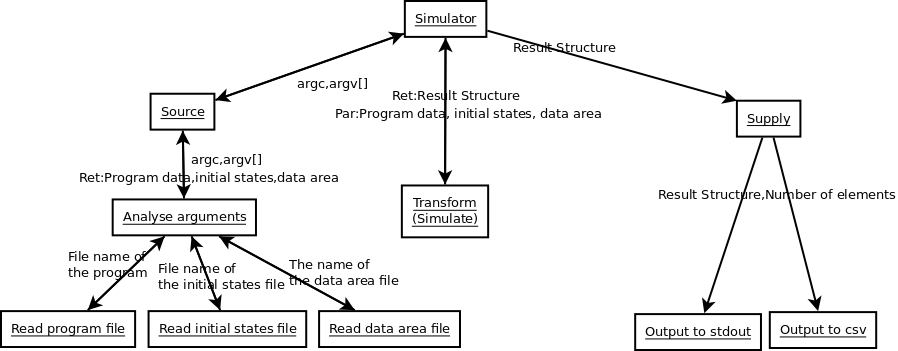
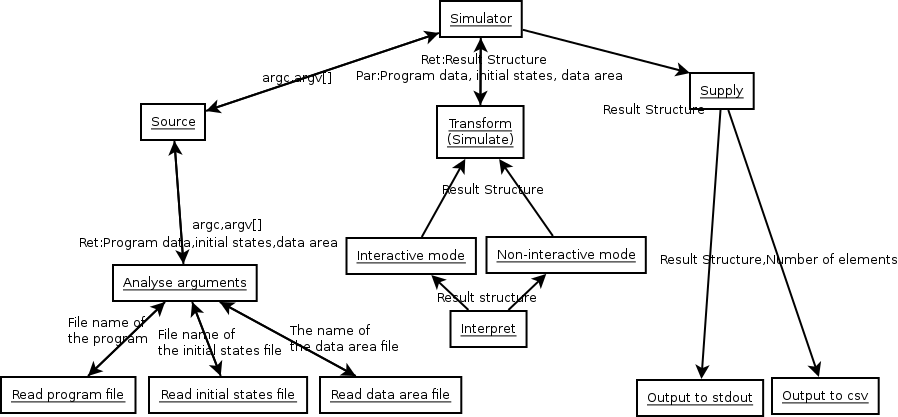
Fixed something.
*)Fixed lacking description of spec.
*)Fixed no-step-passing problem.

Changed region(s): [[0.0, 0.0, 1.0, 1.0]]

diff --git a/main.c b/main.c
@@ -4,6 +4,7 @@
 #include <string.h>
 #include <getopt.h>
 #include <stdlib.h>
+#include <kue-chip2.h>
 
 #define free_mem \
     free(initial_filepath);\
@@ -18,7 +19,7 @@
 
 void showDesc(char *apppath);
 int main(int argc,char *argv[]){
-    int invalid=0,loopid=0,per_inst=0;
+    int invalid=0,loopid=0,per_inst=0,has_err=0;
     size_t step=0;
     char *initial_filepath,*program_filepath,*data_filepath,*out_to;
     initial_filepath=program_filepath=data_filepath=NULL;
@@ -65,11 +66,6 @@ int main(int argc,char *argv[]){
     }
     
     if(invalid) showDesc(argv[0]);
-    if(program_filepath==NULL){
-        fputs("You have to specify program filepath.\n",stderr);
-        free_mem;
-        return EXIT_FAILURE;
-    }
     
     /*Read files*/
     io_data d;
@@ -81,16 +77,14 @@ int main(int argc,char *argv[]){
     puts("File read successfully.");
     
     /*Transform*/
-    if(per_inst){
-        
-    }else{
-        
-    }
+    if(per_inst) has_err=interactive(&d,step,out_to);
+    else has_err=non_interactive(&d,step,out_to);
     
     /*Clean data*/
     free_data;
     free_mem;
-    return 0;
+    
+    return (has_err)?EXIT_FAILURE:EXIT_SUCCESS;
 }
 void showDesc(char *apppath){
     char *title="KUE-Chip2 Simulator";
@@ -104,5 +98,5 @@ void showDesc(char *apppath){
     puts("\t--step (-s)\t:Sets step-limitation");
     puts("\t--output (-o)\t:Sets an output file.");
     puts("\t--input (-i)\t:Sets a machine language file.");
-    puts("\t--per-inst (-p)\t:Interactive Mode. Runs instructions per one instruction.");
+    puts("\t--per-inst (-p)\t:Interactive Mode.");
 }

diff --git a/kue-chip2.c b/kue-chip2.c
@@ -1,0 +1,17 @@
+#include <kue-chip2.h>
+data interpret();
+
+unsigned char pc;
+unsigned char acc;
+unsigned char ix;
+unsigned char pc;
+unsigned char program[256];
+unsigned char data_area[256];
+
+int non_interactive(const io_data *d,const size_t step,const char *out_to){
+    
+}
+
+int interactive(const io_data *d, const size_t step, const char *out_to){
+    
+}

diff --git a/kue-chip2.h b/kue-chip2.h
@@ -1,0 +1,5 @@
+#pragma once
+#include <data.h>
+#include <stdio.h>
+int non_interactive(const io_data *d,const size_t step,const char *out_to);
+int interactive(const io_data *d,const size_t step,const char *out_to);
